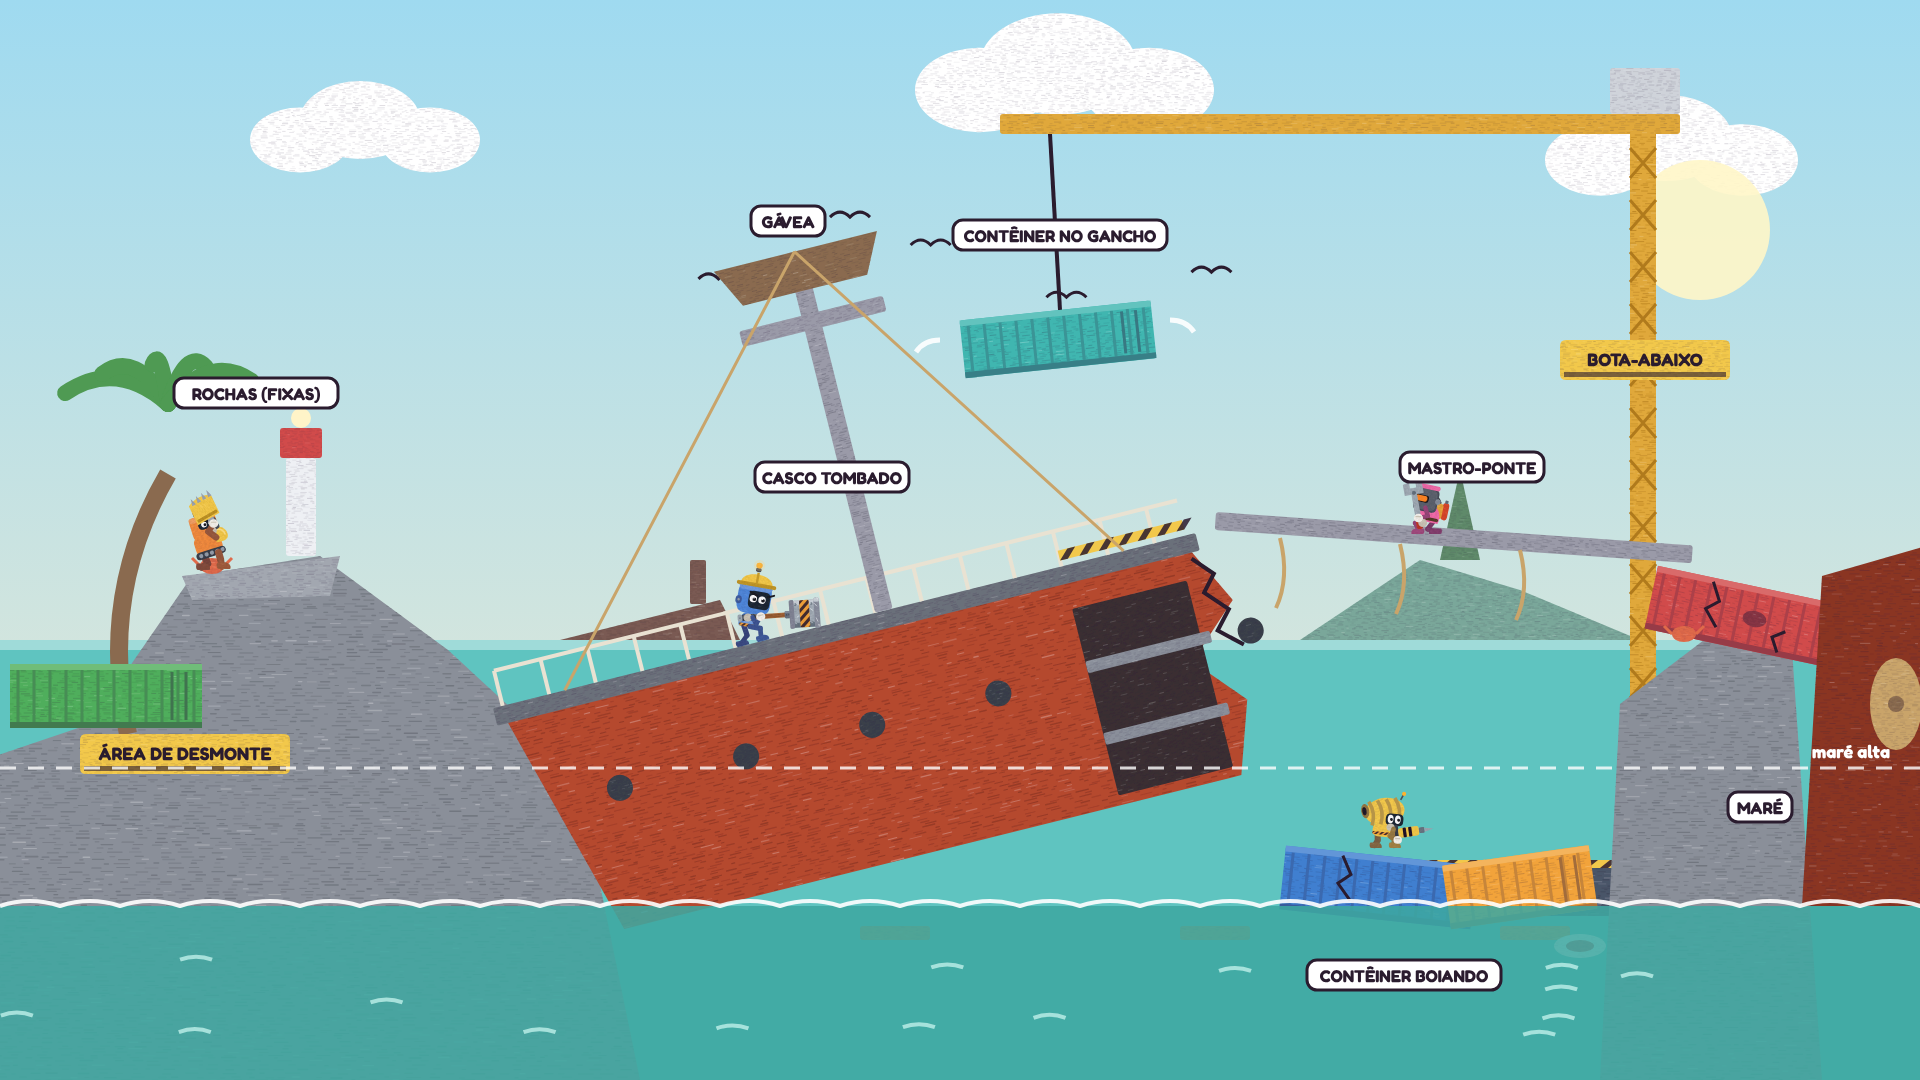
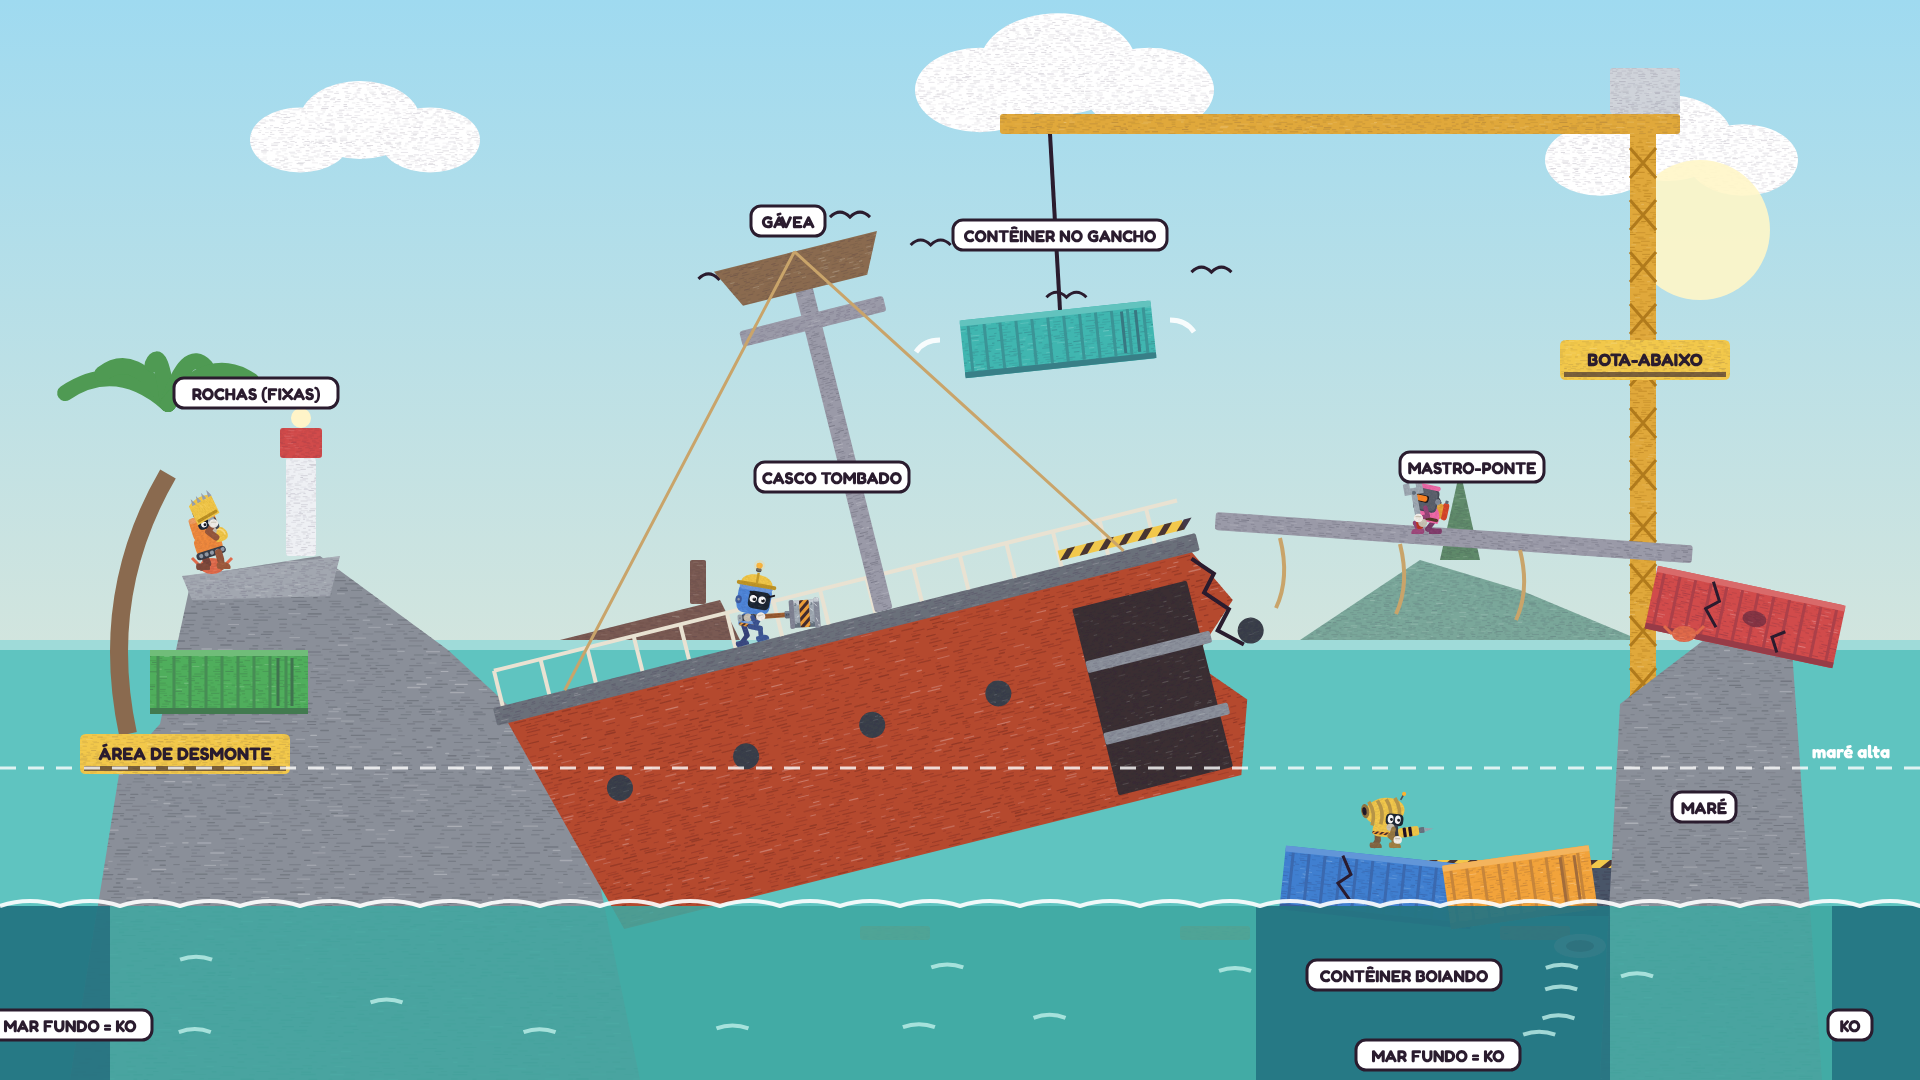
Cargueiro Perdido: saídas para KO nas 3 fotografias (mar, mar fundo, Fenda Abissal, porão aberto)
Claude-Session: https://claude.ai/code/session_018QUPBQj4sLX3w64QQJCiVt

diff --git a/art/src/cenarios/f2_prancha.py b/art/src/cenarios/f2_prancha.py
@@ -156,24 +156,23 @@ def c1_longe():
 
 def c1_navio():
     o = ""
-    # casco (vai além das bordas: o palco é o navio inteiro)
-    o += PL([(-40, DECK), (1720, DECK), (1720, 11 * T), (1960, 11 * T), (1960, H), (-40, H)], FERR, 2.4, dark=FERR_D)
-    o += f'<rect x="-40" y="{DECK + 150}" width="{W + 80}" height="22" fill="#e9e2d2" opacity="0.9"/>'   # linha d'água pintada
-    for k in range(14):
-        o += E(80 + k * 130, DECK + 80, 14, 14, "#3a3f4a", 1.0) + f'<circle cx="{80 + k * 130 - 4}" cy="{DECK + 76}" r="4" fill="#9fc0dc"/>'
+    # casco: popa (esq.) e proa (dir.) terminam ANTES da borda da tela — dos dois lados é mar aberto (cair = KO)
+    o += PL([(110, DECK), (1730, DECK), (1730, 11 * T), (1870, 11 * T), (1800, H), (190, H), (110, DECK + 80)], FERR, 2.4, dark=FERR_D)
+    o += f'<rect x="150" y="{DECK + 150}" width="1690" height="22" fill="#e9e2d2" opacity="0.9"/>'   # linha d'água pintada
+    for k in range(12):
+        o += E(230 + k * 130, DECK + 80, 14, 14, "#3a3f4a", 1.0) + f'<circle cx="{230 + k * 130 - 4}" cy="{DECK + 76}" r="4" fill="#9fc0dc"/>'
     o += f'<text x="980" y="{DECK + 128}" font-family="Fredoka" font-weight="700" font-size="40" fill="#e9e2d2" text-anchor="middle" opacity="0.85">ESTRELA DO SUL · PORTO LIVRE</text>'
     # convés
-    o += R(-40, DECK - 10, 1760, 20, "#6b6f7a", 2, 1.4) + R(1720, 11 * T - 10, 240, 20, "#6b6f7a", 2, 1.4)
-    for x in range(-40, 1720, 48):   # guarda-corpo
+    o += R(110, DECK - 10, 1630, 20, "#6b6f7a", 2, 1.4) + R(1720, 11 * T - 10, 150, 20, "#6b6f7a", 2, 1.4)
+    for x in list(range(110, 20 * T - 20, 48)) + list(range(23 * T + 30, 1720, 48)):   # guarda-corpo (abre no porão)
         o += f'<path d="M{x},{DECK - 10} v-40" stroke="#e9e2d2" stroke-width="4"/>'
-    o += f'<path d="M-40,{DECK - 50} H1720 M-40,{DECK - 30} H1720" stroke="#e9e2d2" stroke-width="4"/>'
     return o
 
 
 def c1_ponte():
     """Ponte de comando (BASE FIXA): 3 andares com terraços jogáveis nas linhas 10, 7 e 4."""
     o = ""
-    x0, w = T, 6 * T
+    x0, w = 2 * T + 20, 5 * T + 30
     for k, (y, h) in enumerate([(10 * T, 3 * T), (7 * T, 3 * T), (4 * T, 3 * T)]):
         ww = w - k * 30
         xx = x0 + k * 15
@@ -194,17 +193,23 @@ def c1_ponte():
 def c1_carga():
     """Contêineres empilhados sobre as tampas dos porões (QUEBRA). Contêiner = 3×1 tiles."""
     o = ""
-    pilhas = [(8, 3, 0), (11, 2, 1), (17, 4, 0), (20, 2, 2), (24, 3, 1)]
+    pilhas = [(8, 3, 0), (11, 2, 1), (17, 3, 0), (24, 3, 1)]
     for k, (col, n, dano) in enumerate(pilhas):
         x = col * T
         o += R(x - 10, DECK - 22, 3 * T + 20, 18, "#7a7f8a", 2, 1.2)   # tampa do porão
         o += zebra(x - 10, DECK - 26, 3 * T + 20, 6)
         for j in range(n):
             o += conteiner(x, DECK - 22 - (j + 1) * T, 3 * T, T, CONT[(k * 3 + j) % len(CONT)], dano if j == n - 1 else 0, porta=j % 2 == 0)
-    # tampa do porão RACHADA (lugar de abrir o navio)
+    # PORÃO ABERTO (a tampa já caiu): vão no meio do convés — cair aqui = KO
+    o += f'<rect x="{20 * T}" y="{DECK - 10}" width="{3 * T}" height="{H - DECK + 10}" fill="#14141c"/>'
+    o += f'<rect x="{20 * T}" y="{DECK - 10}" width="{3 * T}" height="60" fill="url(#c1poro)"/>'
+    o += zebra(20 * T - 14, DECK - 26, 14, 16) + zebra(23 * T, DECK - 26, 14, 16)
+    o += f'<g transform="rotate(64 {20 * T} {DECK})">' + R(20 * T, DECK - 8, 3 * T, 16, "#7a7f8a", 2, 1.0) + "</g>"
+    for k in range(5):
+        o += f'<circle cx="{20 * T + 30 + k * 34}" cy="{DECK + 60 + k * 30}" r="{4 + k}" fill="#3a3a48"/>'
+    # tampa RACHADA do outro porão
     o += R(14 * T - 10, DECK - 22, 3 * T + 20, 18, "#7a7f8a", 2, 1.2)
     o += f'<path d="M{14 * T + 40},{DECK - 22} l14,10 l-10,8 M{15 * T + 60},{DECK - 20} l-12,14" stroke="{INK}" stroke-width="4" fill="none"/>'
-    o += f'<rect x="{14 * T + 30}" y="{DECK - 6}" width="100" height="8" fill="#1d1d26"/>'
     return o
 
 
@@ -225,9 +230,9 @@ def c1_guindaste():
 
 
 def c1_proa():
-    o = R(27 * T, 11 * T - 40, 3 * T + 40, 40, "#cfd3da", 3, 1.2)
-    o += E(28 * T, 11 * T - 60, 30, 22, "#5a5f6a", 1.2) + f'<path d="M{28 * T},{11 * T - 60} h60" stroke="#8a8f9a" stroke-width="10"/>'
-    o += R(29 * T + 20, 6 * T, 12, 5 * T - 40, "#8a8f9a", 2, 1.0) + f'<circle cx="{29 * T + 26}" cy="{6 * T - 8}" r="10" fill="#fff4c8"/>'
+    o = R(27 * T, 11 * T - 40, 2 * T, 40, "#cfd3da", 3, 1.2)
+    o += E(27 * T + 50, 11 * T - 60, 30, 22, "#5a5f6a", 1.2) + f'<path d="M{27 * T + 50},{11 * T - 60} h50" stroke="#8a8f9a" stroke-width="10"/>'
+    o += R(28 * T + 30, 6 * T, 12, 5 * T - 40, "#8a8f9a", 2, 1.0) + f'<circle cx="{28 * T + 36}" cy="{6 * T - 8}" r="10" fill="#fff4c8"/>'
     # onda batendo por cima da proa
     o += S(f"M{W},{11 * T + 20} C{W - 120},{11 * T - 160} {W - 300},{11 * T - 120} {W - 260},{11 * T - 20} C{W - 230},{11 * T + 30} {W - 120},{11 * T + 40} {W},{11 * T + 60} Z",
            "#d6eef8", (W - 310, 11 * T - 170, W, 11 * T + 60), k=1.6, dark="#9fcfe6")
@@ -242,7 +247,8 @@ def c1_atores():
     o = robot("marretao", "pesado_prep", el.COLORS[0], 9 * T + 40, DECK - 22 - 3 * T)
     o += robot("picareta", "rapido", el.COLORS[1], 12 * T + 70, DECK - 22 - 2 * T, flip=True)
     o += robot("chave", "esquiva", el.COLORS[2], 18 * T + 60, DECK - 22 - 4 * T)
-    o += robot("britadeira", "pesado_golpe", el.COLORS[3], 22 * T, DECK - 22, flip=True)
+    o += robot("britadeira", "esquiva", el.COLORS[3], 21 * T + 30, DECK - 3 * T, flip=True)   # pulando o porão aberto
+    o += f'<path d="M{21 * T + 90},{DECK - 3 * T - 20} q-30,30 -70,40" stroke="#ffffff" stroke-width="4" fill="none" stroke-dasharray="8 8" opacity="0.8"/>'
     o += f'<path d="M{18 * T},{DECK - 22 - 4 * T - 30} h-50 M{18 * T + 6},{DECK - 22 - 4 * T - 16} h-40" stroke="#ffffff" stroke-width="5" stroke-linecap="round" opacity="0.85"/>'
     return o
 
@@ -254,7 +260,8 @@ def c1_frente():
         x = rnd.uniform(1400, W)
         o += f'<path d="M{x},{rnd.uniform(0, H)} l-14,40" stroke="#e6e2f6" stroke-width="2.5" opacity="0.5"/>'
     o += tag(9 * T + 96, DECK - 22 - 3 * T - 130, "CONTÊINERES")
-    o += tag(14 * T + 96, DECK + 20, "TAMPA DO PORÃO")
+    o += tag(14 * T + 96, DECK + 20, "TAMPA DO PORÃO") + tag(21 * T + 32, DECK + 120, "PORÃO ABERTO = KO")
+    o += tag(56, DECK + 190, "MAR = KO") + tag(W - 60, DECK + 190, "MAR = KO")
     o += tag(21 * T + 40, 3 * T + 30, "GANCHO")
     o += tag(W - 200, 11 * T - 200, "ONDA")
     o += tag(7 * T + 80, 8 * T - 40, "BOTE")
@@ -263,7 +270,7 @@ def c1_frente():
 
 
 def cena1():
-    defs = fonte() + rough(seed=31, scale=0.8, freq=0.05) + grad("c1ceu", [(0, "#f7b27a"), (0.45, "#e8988a"), (1, "#6f6aa0")])
+    defs = fonte() + rough(seed=31, scale=0.8, freq=0.05) + grad("c1ceu", [(0, "#f7b27a"), (0.45, "#e8988a"), (1, "#6f6aa0")]) + grad("c1poro", [(0, "#3a3a48"), (1, "#14141c")])
     body = c1_ceu() + c1_longe() + c1_navio() + c1_ponte() + c1_guindaste() + c1_carga() + c1_proa() + c1_atores() + c1_frente()
     return doc(W, H, f'<g filter="url(#rough)">{body}</g>', defs)
 
@@ -308,7 +315,7 @@ def c2_balsa():
 
 def c2_ilheu():
     """Rochas do ilhéu (BASE FIXA) à esquerda e pilar de rocha à direita."""
-    o = PL([(-40, H), (-40, 12 * T), (90, 11 * T + 20), (3 * T, 9 * T), (5 * T, 9 * T - 20), (7 * T, 10 * T + 10), (9 * T, 12 * T), (10 * T, H)],
+    o = PL([(70, H), (120, 12 * T), (160, 11 * T + 20), (3 * T, 9 * T), (5 * T, 9 * T - 20), (7 * T, 10 * T + 10), (9 * T, 12 * T), (10 * T, H)],
            "#8a8f99", 2.6, dark="#6b7079")
     o += PL([(3 * T - 10, 9 * T), (5 * T + 20, 9 * T - 20), (5 * T + 10, 9 * T + 20), (3 * T, 9 * T + 24)], "#a2a7b0", 1.4)   # topo plano jogável
     o += PL([(25 * T, H), (25 * T + 20, 11 * T), (26 * T + 40, 10 * T), (28 * T, 10 * T + 10), (28 * T + 30, H)], "#8a8f99", 2.4, dark="#6b7079")
@@ -360,10 +367,8 @@ def c2_resto():
     o += f'<g transform="rotate(6 {21 * T} {MAR2})">' + conteiner(20 * T, MAR2 - T + 10, 3 * T, T, CONT[1], 1) + "</g>"
     o += f'<g transform="rotate(-8 {23 * T} {MAR2})">' + conteiner(22 * T + 40, MAR2 - T + 20, 2 * T + 20, T, CONT[3], 0, True) + "</g>"
     o += f'<g transform="rotate(12 {27 * T} {10 * T})">' + conteiner(26 * T - 20, 10 * T - T + 6, 3 * T, T, CONT[0], 2) + "</g>"
-    o += conteiner(10, 11 * T + 24 - T, 3 * T, T, CONT[2], 0, True)
-    # popa saindo d'água ao fundo direito (hélice)
-    o += PL([(28 * T + 10, MAR2), (28 * T + 30, 9 * T), (W + 20, 8 * T + 30), (W + 20, MAR2)], FERR_D, 1.8)
-    o += E(29 * T + 40, 11 * T, 26, 46, "#c9a46a", 1.2) + E(29 * T + 40, 11 * T, 8, 8, "#8a6b4f", 0.8)
+    o += conteiner(150, 11 * T + 10 - T, 2 * T + 30, T, CONT[2], 0, True)
+
     # destroços boiando
     for x, cor in [(860, "#c98a4b"), (1500, "#f08a3d"), (1180, "#c98a4b")]:
         o += R(x, MAR2 + 20, 70, 14, cor, 3, 1.0)
@@ -386,6 +391,8 @@ def c2_atores():
 
 def c2_frente():
     o = f'<rect x="0" y="{MAR2}" width="{W}" height="{H - MAR2}" fill="#3fa7a0" opacity="0.88"/>'
+    for x0, x1 in ((0, 110), (19 * T + 40, 25 * T + 10), (28 * T + 40, W)):   # MAR FUNDO (sem chão embaixo) = KO
+        o += f'<rect x="{x0}" y="{MAR2}" width="{x1 - x0}" height="{H - MAR2}" fill="#14506b" opacity="0.55"/>'
     o += f'<path d="M0,{12 * T} H{W}" stroke="#ffffff" stroke-width="3" stroke-dasharray="16 12" opacity="0.8"/>'
     o += f'<text x="{W - 30}" y="{12 * T - 10}" font-family="Fredoka" font-weight="700" font-size="18" fill="#ffffff" text-anchor="end">maré alta</text>'
     rnd = random.Random(6)
@@ -393,8 +400,8 @@ def c2_frente():
         x = rnd.uniform(0, W)
         o += f'<path d="M{x},{MAR2 + 30 + rnd.uniform(0, 120)} q16,-6 32,0" stroke="#bff0ea" stroke-width="4" fill="none" opacity="0.8"/>'
     o += f'<path d="M0,{MAR2} ' + "".join("q30,-10 60,0 " for _ in range(33)) + '" stroke="#ffffff" stroke-width="4" fill="none" opacity="0.9"/>'
-    o += tag(4 * T, 6 * T + 10, "ROCHAS (FIXAS)") + tag(13 * T, 7 * T + 30, "CASCO TOMBADO")
-    o += tag(23 * T, 7 * T + 20, "MASTRO-PONTE") + tag(12 * T + 20, 3 * T + 30, "GÁVEA") + tag(1060, 4 * T - 20, "CONTÊINER NO GANCHO") + tag(21 * T + 60, MAR2 + 70, "CONTÊINER BOIANDO") + tag(W - 160, 12 * T + 40, "MARÉ")
+    o += tag(4 * T, 6 * T + 10, "ROCHAS (FIXAS)") + tag(70, MAR2 + 120, "MAR FUNDO = KO") + tag(22 * T + 30, MAR2 + 150, "MAR FUNDO = KO") + tag(W - 70, MAR2 + 120, "KO") + tag(13 * T, 7 * T + 30, "CASCO TOMBADO")
+    o += tag(23 * T, 7 * T + 20, "MASTRO-PONTE") + tag(12 * T + 20, 3 * T + 30, "GÁVEA") + tag(1060, 4 * T - 20, "CONTÊINER NO GANCHO") + tag(21 * T + 60, MAR2 + 70, "CONTÊINER BOIANDO") + tag(26 * T + 40, 12 * T + 40, "MARÉ")
     return o
 
 
@@ -429,7 +436,10 @@ def c3_agua():
 def c3_templo():
     o = ""
     # ESCADARIAS (BASE FIXA): plataforma de mármore em degraus
-    o += R(-20, CHAO3, W + 40, H - CHAO3, "#d9c48f", 0, 2.4, dark="#b9a46f")
+    o += f'<rect x="0" y="{CHAO3 - 120}" width="{W}" height="{H - CHAO3 + 120}" fill="url(#c3fenda)"/>'   # a Fenda Abissal
+    o += PL([(2 * T - 20, CHAO3), (28 * T + 20, CHAO3), (23 * T, H + 10), (7 * T, H + 10)], "#4a5a6a", 2.4, dark="#34404c")   # pico de rocha
+    for k in range(6):
+        o += f'<path d="M{7 * T + k * 160},{H} l{30 + k * 4},-{60 + k * 12}" stroke="#34404c" stroke-width="5"/>'
     o += R(2 * T, CHAO3 - 30, 26 * T, 30, MARM_D, 2, 1.6) + R(3 * T, CHAO3 - 56, 24 * T, 28, MARM, 2, 1.6)
     # muralhas laterais (FIXAS) com arcos
     for x in (2 * T, 25 * T):
@@ -474,7 +484,7 @@ def c3_navio_caido():
 
 def c3_cupula():
     """Cúpula de AR sobre o templo; o lado direito rachou e está ALAGANDO até a linha 11."""
-    cx, base, rx, ry = 15 * T, CHAO3 - 56, 13 * T + 20, 12 * T + 30
+    cx, base, rx, ry = 15 * T, CHAO3 - 56, 13 * T, 12 * T + 30
     o = f'<path d="M{cx - rx},{base} A{rx},{ry} 0 0 1 {cx + rx},{base} Z" fill="#dff7fb" opacity="0.18"/>'
     o += f'<path d="M{cx - rx},{base} A{rx},{ry} 0 0 1 {cx + rx},{base}" fill="none" stroke="#ffffff" stroke-width="6" opacity="0.85"/>'
     for k in range(1, 6):
@@ -493,16 +503,16 @@ def c3_cupula():
 
 
 def c3_grua():
-    """Grua submarina da equipe (identidade da obra), presa no chão do mar à direita."""
-    x = 28 * T + 20
-    o = R(x - 20, CHAO3 - 30, 70, 30, "#6b5a3a", 3, 1.2)
-    o += R(x, 3 * T, 22, CHAO3 - 30 - 3 * T, "#e0a83a", 3, 1.4, dark="#b07a1e")
-    for k in range(12):
+    """Grua submarina da equipe (identidade da obra), presa no alto da muralha da direita."""
+    x = 26 * T + 30
+    o = R(x - 20, 7 * T - 40, 70, 24, "#6b5a3a", 3, 1.2)
+    o += R(x, 2 * T, 22, 5 * T - 40, "#e0a83a", 3, 1.4, dark="#b07a1e")
+    for k in range(5):
         y = 3 * T + 20 + k * 52
         o += f'<path d="M{x},{y} l22,30 M{x + 22},{y} l-22,30" stroke="#b07a1e" stroke-width="3"/>'
-    o += R(x - 200, 3 * T - 14, 260, 18, "#e0a83a", 3, 1.2) + f'<circle cx="{x + 10}" cy="{3 * T - 30}" r="12" fill="#fff4c8"/>'
-    o += f'<path d="M{x + 10},{3 * T - 30} L{x - 120},{3 * T + 200} L{x + 80},{3 * T + 200} Z" fill="#fff4c8" opacity="0.12"/>'
-    o += f'<rect x="{x - 300}" y="{CHAO3 - 50}" width="180" height="40" rx="6" fill="{YEL}"/><text x="{x - 210}" y="{CHAO3 - 23}" font-family="Fredoka" font-weight="700" font-size="17" fill="{INK}" text-anchor="middle">OBRA SUBMARINA</text>'
+    o += R(x - 200, 2 * T - 14, 300, 18, "#e0a83a", 3, 1.2) + f'<circle cx="{x + 10}" cy="{2 * T - 30}" r="12" fill="#fff4c8"/>'
+    o += f'<path d="M{x + 10},{2 * T - 30} L{x - 120},{2 * T + 200} L{x + 80},{2 * T + 200} Z" fill="#fff4c8" opacity="0.12"/>'
+    o += f'<rect x="{x - 260}" y="{CHAO3 - 50}" width="180" height="40" rx="6" fill="{YEL}"/><text x="{x - 170}" y="{CHAO3 - 23}" font-family="Fredoka" font-weight="700" font-size="17" fill="{INK}" text-anchor="middle">OBRA SUBMARINA</text>'
     return o
 
 
@@ -517,27 +527,25 @@ def c3_atores():
 
 def c3_frente():
     o = ""
-    o += f'<path d="M640,{H - 60} v-90 M600,{H - 120} h80 M610,{H - 60} q30,30 60,0" stroke="#5a5f6a" stroke-width="10" fill="none" stroke-linecap="round"/>'   # âncora do navio
-    for x, cor in [(320, "#e06a8a"), (1300, "#f2a33a"), (1500, "#e06a8a")]:
+    o += f'<path d="M700,{H - 30} v-90 M660,{H - 90} h80 M670,{H - 30} q30,30 60,0" stroke="#5a5f6a" stroke-width="10" fill="none" stroke-linecap="round"/>'   # âncora do navio
+    for x, cor in [(560, "#e06a8a"), (1260, "#f2a33a")]:
         for j in range(3):
-            o += f'<path d="M{x + j * 14},{H - 40} q-6,-40 {6 - j * 4},-70" stroke="{cor}" stroke-width="10" fill="none" stroke-linecap="round"/>'
-    for x in (460, 1100, 1700):
-        o += E(x, H - 50, 40, 18, "#b9a46f", 1.2)
-    o += conteiner(1150, H - 110, 3 * T, T, CONT[1], 1)
+            o += f'<path d="M{x + j * 14},{H - 20} q-6,-40 {6 - j * 4},-70" stroke="{cor}" stroke-width="10" fill="none" stroke-linecap="round"/>'
+    o += conteiner(960, H - 90, 3 * T, T, CONT[1], 1)
     rnd = random.Random(23)
-    for x in (40, 160, 1760, 1860):   # algas no primeiro plano
+    for x in ():   # (sem algas nas bordas: ali é a fenda)
         o += f'<path d="M{x},{H} q-30,-120 10,-240 q30,-90 -10,-180" stroke="#2f8a5a" stroke-width="22" fill="none" stroke-linecap="round" opacity="0.9"/>'
     for _ in range(26):
         o += f'<circle cx="{rnd.uniform(0, W)}" cy="{rnd.uniform(0, H)}" r="{rnd.uniform(3, 10)}" fill="none" stroke="#ffffff" stroke-width="2" opacity="0.6"/>'
     o += tag(15 * T, 3 * T, "FRONTÃO") + tag(9 * T + 20, 12 * T + 10, "COLUNAS")
     o += tag(17 * T + 60, 2 * T - 30, "PEDAÇO DO NAVIO") + tag(6 * T, 2 * T + 60, "MASTRO CAÍDO")
     o += tag(22 * T + 50, 12 * T + 40, "ALAGANDO") + tag(4 * T, CHAO3 - 130, "CONCHA") + tag(15 * T, CHAO3 + 60, "ESCADARIAS (FIXAS)")
-    o += tag(23 * T, 0 * T + 40, "CÚPULA RACHOU")
+    o += tag(23 * T, 0 * T + 40, "CÚPULA RACHOU") + tag(64, CHAO3 + 90, "FENDA = KO") + tag(W - 64, CHAO3 + 90, "FENDA = KO")
     return o
 
 
 def cena2b():
-    defs = fonte() + rough(seed=35, scale=0.8, freq=0.05) + grad("c3agua", [(0, "#4fc0d0"), (0.6, "#1f7f9a"), (1, "#0f4f6f")])
+    defs = fonte() + rough(seed=35, scale=0.8, freq=0.05) + grad("c3agua", [(0, "#4fc0d0"), (0.6, "#1f7f9a"), (1, "#0f4f6f")]) + grad("c3fenda", [(0, "#0f4f6f"), (0.5, "#08283c"), (1, "#02080f")])
     body = c3_agua() + c3_templo() + c3_grua() + c3_cupula() + c3_navio_caido() + c3_atores() + c3_frente()
     return doc(W, H, f'<g filter="url(#rough)">{body}</g>', defs)
 

diff --git a/docs/manuais/derruba/mapa.md b/docs/manuais/derruba/mapa.md
@@ -125,6 +125,7 @@ Para ver: `ROTA=moderada … -- --fase=DIR`. Última cena: sem transição. Regr
 | Erro | Causa | Regra |
 |---|---|---|
 | Mapa feito direto no código, sem pensar a cena | não havia cartilha nem catálogo | ordem do §1: catálogo → prancha → código |
+| Fase 2 (Cargueiro): fotografias v1 com piso de ponta a ponta — ninguém caía (sem KO) | desenhei o palco antes de decidir por onde se cai | ao montar CADA cena, primeiro marque as saídas para KO (≥ 2 lados, visíveis: mar, fenda, porão) e só depois o resto |
 | 3 rodadas de correção depois do playtest | a composição só foi "lida" pelo usuário | checklist do §5 antes de mandar |
 | Evento da biblioteca inútil e travando na fase (drone G09) | evento entrou na lista sem ser provado na fase | bloco E: provar cada evento na fase; senão sai da lista |
 

diff --git a/docs/fases/derruba/f2_cargueiro/decisoes_testes.md b/docs/fases/derruba/f2_cargueiro/decisoes_testes.md
@@ -6,3 +6,4 @@
 | 2026-11-28 | 3 cenas: Cargueiro no Alto-Mar → Destroços do Cargueiro (40%) / Atlântida (65%) | usuário |
 | 2026-11-28 | Toda cena precisa de estrutura coerente para pisar e quebrar | usuário |
 | 2026-11-28 | Nome: Cargueiro Perdido | usuário |
+| 2026-11-28 | KO por cena: 1 = mar nos dois lados do navio + porão aberto; 2a = mar fundo (esq., meio, dir.), maré só alaga o raso; 2b = Fenda Abissal dos dois lados do pico do templo | usuário pediu (fotos v1 sem KO) |
